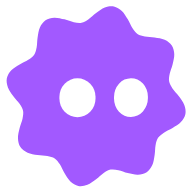
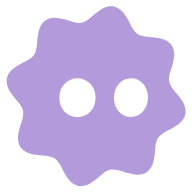
feat(theme): add pastel accents and smooth theme transitions

diff --git a/apps/web/test/state/session/theme.test.ts b/apps/web/test/state/session/theme.test.ts
@@ -1,0 +1,92 @@
+import { afterEach, beforeEach, expect, test, vi } from "vitest";
+import { applyTheme, disposeThemeTransition } from "../../../src/state/session/theme";
+
+beforeEach(() => {
+  disposeThemeTransition();
+  document.documentElement.classList.remove("dark");
+});
+afterEach(() => {
+  disposeThemeTransition();
+  vi.restoreAllMocks();
+  delete (document as Partial<Document>).startViewTransition;
+});
+
+function nativeTransition() {
+  const updates: (() => void | Promise<void>)[] = [];
+  const finishers: (() => void)[] = [];
+  const transitions: { skipTransition: ReturnType<typeof vi.fn> }[] = [];
+  const start = vi.fn((update: () => void | Promise<void>) => {
+    updates.push(update);
+    const value = {
+      skipTransition: vi.fn(),
+      finished: new Promise<void>((resolve) => finishers.push(resolve)),
+    };
+    transitions.push(value);
+    return value;
+  });
+  Object.defineProperty(document, "startViewTransition", { configurable: true, value: start });
+  return { start, updates, finishers, transitions };
+}
+
+test("initial application stays immediate and a later switch blends once despite duplicate callers", async () => {
+  const d = nativeTransition();
+  applyTheme("light");
+  expect(d.start).not.toHaveBeenCalled();
+  applyTheme("dark");
+  applyTheme("dark");
+  expect(d.start).toHaveBeenCalledOnce();
+  expect(document.documentElement).not.toHaveClass("dark");
+  await d.updates[0]!();
+  expect(document.documentElement).toHaveClass("dark");
+  expect(document.documentElement.style.colorScheme).toBe("dark");
+  expect(localStorage.getItem("musart.theme")).toBe("dark");
+  d.finishers[0]!();
+});
+
+test("a newer choice supersedes a pending snapshot instead of restoring an obsolete theme", async () => {
+  const d = nativeTransition();
+  applyTheme("light");
+  applyTheme("dark");
+  applyTheme("light");
+  expect(d.transitions[0]!.skipTransition).toHaveBeenCalledOnce();
+  await d.updates[0]!();
+  expect(document.documentElement).not.toHaveClass("dark");
+  expect(localStorage.getItem("musart.theme")).toBe("light");
+});
+
+test("reduced motion resolves System immediately and native snapshot failures do not block switching", () => {
+  const d = nativeTransition();
+  applyTheme("light");
+  vi.spyOn(window, "matchMedia").mockImplementation((query) => ({
+    media: query,
+    matches: true,
+    onchange: null,
+    addListener: vi.fn(),
+    removeListener: vi.fn(),
+    addEventListener: vi.fn(),
+    removeEventListener: vi.fn(),
+    dispatchEvent: vi.fn(() => true),
+  }));
+  applyTheme("system");
+  expect(document.documentElement).toHaveClass("dark");
+  expect(localStorage.getItem("musart.theme")).toBe("system");
+  expect(d.start).not.toHaveBeenCalled();
+  vi.mocked(window.matchMedia).mockRestore();
+  d.start.mockImplementation(() => {
+    throw new Error("Snapshot unavailable");
+  });
+  applyTheme("light");
+  expect(document.documentElement).not.toHaveClass("dark");
+});
+
+test("disposal retires the native animation and pending deliveries cannot overwrite the final choice", async () => {
+  const d = nativeTransition();
+  applyTheme("light");
+  applyTheme("dark");
+  disposeThemeTransition();
+  expect(document.documentElement).toHaveClass("dark");
+  expect(d.transitions[0]!.skipTransition).toHaveBeenCalledOnce();
+  applyTheme("light");
+  await d.updates[0]!();
+  expect(document.documentElement).not.toHaveClass("dark");
+});

diff --git a/apps/web/src/state/session/theme.ts b/apps/web/src/state/session/theme.ts
@@ -1,0 +1,85 @@
+import { useEffect } from "react";
+import { atom, useAtomValue } from "jotai";
+
+export type Theme = "system" | "light" | "dark";
+const initialized = new WeakSet<HTMLElement>();
+let revision = 0;
+let active: { root: HTMLElement; dark: boolean; transition: ViewTransition } | null = null;
+
+export function readTheme(): Theme {
+  try {
+    const saved = localStorage.getItem("musart.theme");
+    return saved === "light" || saved === "dark" ? saved : "system";
+  } catch {
+    return "system";
+  }
+}
+export const themeAtom = atom<Theme>(readTheme());
+
+function paint(root: HTMLElement, dark: boolean) {
+  root.classList.toggle("dark", dark);
+  root.style.colorScheme = dark ? "dark" : "light";
+}
+
+/** Native snapshots blend the complete interface, including portals, without a React frame loop. */
+export function applyTheme(theme: Theme) {
+  const root = document.documentElement;
+  const dark =
+    theme === "dark" || (theme === "system" && matchMedia("(prefers-color-scheme: dark)").matches);
+  try {
+    localStorage.setItem("musart.theme", theme);
+  } catch {
+    /* Theme changes remain available with blocked storage. */
+  }
+  if (active?.root === root && active.dark === dark) return;
+  const request = ++revision;
+  active?.transition.skipTransition();
+  active = null;
+  const first = !initialized.has(root);
+  initialized.add(root);
+  if (
+    first ||
+    root.classList.contains("dark") === dark ||
+    matchMedia("(prefers-reduced-motion: reduce)").matches ||
+    !document.startViewTransition
+  ) {
+    paint(root, dark);
+    return;
+  }
+  try {
+    const transition = document.startViewTransition(() => {
+      if (request === revision) paint(root, dark);
+    });
+    active = { root, dark, transition };
+    void transition.finished
+      .catch(() => undefined)
+      .then(() => {
+        if (active?.transition === transition) active = null;
+      });
+  } catch {
+    paint(root, dark);
+  }
+}
+
+export function disposeThemeTransition() {
+  ++revision;
+  initialized.delete(document.documentElement);
+  if (active) {
+    paint(active.root, active.dark);
+    active.transition.skipTransition();
+    active = null;
+  }
+}
+
+export function useTheme() {
+  const theme = useAtomValue(themeAtom);
+  useEffect(() => {
+    applyTheme(theme);
+    if (theme !== "system") return;
+    const media = matchMedia("(prefers-color-scheme: dark)");
+    const onChange = () => applyTheme("system");
+    media.addEventListener("change", onChange);
+    return () => media.removeEventListener("change", onChange);
+  }, [theme]);
+  useEffect(() => disposeThemeTransition, []);
+}

diff --git a/apps/web/src/state/session/editor.ts b/apps/web/src/state/session/editor.ts
@@ -1,5 +1,5 @@
-import { useCallback, useEffect, useSyncExternalStore } from "react";
-import { atom, useAtomValue } from "jotai";
+import { useCallback, useSyncExternalStore } from "react";
+import { atom } from "jotai";
 import type { EnginePort, SessionSnapshot } from "@musart/core";
 import type { PreviewValue } from "./preview-source";
 import type { Tool } from "../../canvas/EditorCanvas";
@@ -10,27 +10,7 @@ export const previewAtom = atom<PreviewValue | null>(null);
 export const toleranceAtom = atom(32);
 export const selectionModeAtom = atom<SelectionMode>("new");
 export const selectionContiguousAtom = atom(true);
-export type Theme = "system" | "light" | "dark";
-export function readTheme(): Theme {
-  try {
-    const saved = localStorage.getItem("musart.theme");
-    return saved === "light" || saved === "dark" ? saved : "system";
-  } catch {
-    return "system";
-  }
-}
-export const themeAtom = atom<Theme>(readTheme());
-export function useTheme() {
-  const theme = useAtomValue(themeAtom);
-  useEffect(() => {
-    applyTheme(theme);
-    if (theme !== "system") return;
-    const media = matchMedia("(prefers-color-scheme: dark)");
-    const onChange = () => applyTheme("system");
-    media.addEventListener("change", onChange);
-    return () => media.removeEventListener("change", onChange);
-  }, [theme]);
-}
+export { applyTheme, readTheme, themeAtom, useTheme, type Theme } from "./theme";
 export function useEngine(engine: EnginePort) {
   return useSyncExternalStore(engine.subscribe, engine.getSnapshot, engine.getSnapshot);
 }
@@ -38,15 +18,4 @@ export function useEngine(engine: EnginePort) {
 export function useEngineValue<T>(engine: EnginePort, select: (snapshot: SessionSnapshot) => T) {
   const read = useCallback(() => select(engine.getSnapshot()), [engine, select]);
   return useSyncExternalStore(engine.subscribe, read, read);
-}
-export function applyTheme(theme: Theme) {
-  const dark =
-    theme === "dark" || (theme === "system" && matchMedia("(prefers-color-scheme: dark)").matches);
-  document.documentElement.classList.toggle("dark", dark);
-  document.documentElement.style.colorScheme = dark ? "dark" : "light";
-  try {
-    localStorage.setItem("musart.theme", theme);
-  } catch {
-    /* Editing remains available with blocked storage. */
-  }
 }

diff --git a/apps/web/src/styles/tokens.css b/apps/web/src/styles/tokens.css
@@ -7,6 +7,8 @@
   --color-card-foreground: var(--foreground);
   --color-popover: var(--popover);
   --color-popover-foreground: var(--foreground);
+  --color-action: var(--action);
+  --color-action-foreground: var(--action-foreground);
   --color-primary: var(--primary);
   --color-primary-foreground: var(--primary-foreground);
   --color-secondary: var(--secondary);
@@ -30,9 +32,9 @@
   --foreground: #24252b;
   --card: #ffffff;
   --popover: #ffffff;
-  --primary: var(--action);
+  --primary: var(--brand-primary);
   --primary-foreground: var(--action-foreground);
-  --action: var(--brand-primary);
+  --action: var(--brand-action);
   --action-foreground: var(--brand-primary-foreground);
   --media-image: var(--primary);
   --motion-accent: var(--primary);
@@ -62,12 +64,12 @@
   --media-video: #a78bfa;
   --media-audio: #4ade80;
   --background: #222222;
-  --foreground: #e8e8e8;
+  --foreground: #ffffff;
   --card: #262626;
   --popover: #2a2a2a;
-  --primary: var(--action);
+  --primary: var(--brand-primary);
   --primary-foreground: var(--action-foreground);
-  --action: var(--brand-primary);
+  --action: var(--brand-action);
   --action-foreground: var(--brand-primary-foreground);
   --secondary: #353535;
   --muted: #303030;

diff --git a/scripts/brand-assets.ts b/scripts/brand-assets.ts
@@ -30,7 +30,7 @@ export async function writeBrandAssets(
   await mkdir(publicFolder, { recursive: true });
   await writeFile(
     resolve(root, "apps/web/src/ui/brand/palette.css"),
-    `/* Generated from ui/brand/config.ts by bun scripts/brand-assets.ts. */\n:root {\n  --brand-primary: ${brand.colors.primary.toLowerCase()};\n  --brand-primary-foreground: ${brand.colors.onPrimary.toLowerCase()};\n  --brand-soft: ${brand.colors.soft.toLowerCase()};\n  --brand-ink: ${brand.colors.ink.toLowerCase()};\n}\n`,
+    `/* Generated from ui/brand/config.ts by bun scripts/brand-assets.ts. */\n:root {\n  --brand-primary: ${brand.colors.primary.toLowerCase()};\n  --brand-action: ${brand.colors.action.toLowerCase()};\n  --brand-primary-foreground: ${brand.colors.onPrimary.toLowerCase()};\n  --brand-soft: ${brand.colors.soft.toLowerCase()};\n  --brand-ink: ${brand.colors.ink.toLowerCase()};\n}\n`,
   );
   await writeFile(
     resolve(root, "apps/web/public/manifest.webmanifest"),

diff --git a/apps/web/src/styles/theme-transition.css b/apps/web/src/styles/theme-transition.css
@@ -1,0 +1,32 @@
+::view-transition {
+  pointer-events: none;
+}
+::view-transition-old(root),
+::view-transition-new(root) {
+  mix-blend-mode: normal;
+  animation-duration: 360ms;
+  animation-timing-function: cubic-bezier(0.4, 0, 0.2, 1);
+}
+::view-transition-old(root) {
+  animation-name: theme-fade-out;
+}
+::view-transition-new(root) {
+  animation-name: theme-fade-in;
+}
+@keyframes theme-fade-out {
+  to {
+    opacity: 0;
+  }
+}
+@keyframes theme-fade-in {
+  from {
+    opacity: 0;
+  }
+}
+@media (prefers-reduced-motion: reduce) {
+  ::view-transition-group(root),
+  ::view-transition-old(root),
+  ::view-transition-new(root) {
+    animation-duration: 0.01ms;
+  }
+}

diff --git a/apps/web/test/ui/brand/MeltLogo.test.tsx b/apps/web/test/ui/brand/MeltLogo.test.tsx
@@ -16,7 +16,7 @@ test("renders a genuine Dahlia SVG with explicit identity, local IDs and zero id
   expect(logo.tagName.toLowerCase()).toBe("svg");
   expect(logo).toHaveAttribute("width", "42");
   expect(logo).toHaveStyle({ width: "42px", height: "42px" });
-  expect(logo.querySelector('path[fill="#A259FF"]')?.getAttribute("d")).toMatch(/^M.*C.*Z$/);
+  expect(logo.querySelector('path[fill="#B39ADB"]')?.getAttribute("d")).toMatch(/^M.*C.*Z$/);
   expect(document.querySelectorAll("clipPath")).toHaveLength(2);
   const ids = [...document.querySelectorAll("clipPath")].map((node) => node.id);
   expect(new Set(ids).size).toBe(2);

diff --git a/apps/web/src/components/ui/glass-controls.css b/apps/web/src/components/ui/glass-controls.css
@@ -70,8 +70,8 @@
   height: 16px;
 }
 .glass-switch[data-state="checked"] {
-  background: var(--primary);
-  border-color: var(--primary);
+  background: var(--action);
+  border-color: var(--action);
 }
 .glass-switch:focus-visible {
   box-shadow: 0 0 0 3px color-mix(in srgb, var(--ring) 30%, transparent);
@@ -110,7 +110,7 @@
   background: var(--primary-foreground);
 }
 .dark .glass-switch[data-state="unchecked"] .glass-switch-thumb {
-  background: var(--foreground);
+  background: var(--brand-primary-foreground);
 }
 @media (prefers-reduced-motion: reduce) {
   .glass-slider-thumb,

diff --git a/apps/web/test/ui/brand/render-frame.test.ts b/apps/web/test/ui/brand/render-frame.test.ts
@@ -17,7 +17,7 @@ test("retains bounded real SVG paths for every engine state, keeps clip IDs loca
   other.paint(frame);
   expect(svg.querySelector("clipPath")!.id).toBe("first-body");
   expect(otherSvg.querySelector("clipPath")!.id).toBe("second-body");
-  expect(svg.querySelector('path[fill="#A259FF"]')).toHaveAttribute("d", frame.bodyPath);
+  expect(svg.querySelector('path[fill="#B39ADB"]')).toHaveAttribute("d", frame.bodyPath);
   for (const state of SEQUENCE) {
     const source = createDahliaEngine(state);
     surface.paint(source.sample(0.75));

diff --git a/apps/web/test/ui/brand/config.test.ts b/apps/web/test/ui/brand/config.test.ts
@@ -3,7 +3,7 @@ import { brand } from "../../../src/ui/brand/config";
 test("shares the Melt identity, original Dahlia look and SVG asset contract", () => {
   expect(brand).toMatchObject({
     name: "Melt",
-    colors: { primary: "#A259FF", foreground: "#FFFFFF" },
+    colors: { primary: "#B39ADB", action: "#8763C8", foreground: "#FFFFFF", onPrimary: "#FFFFFF" },
     mascot: { shape: "fleur8", expression: "surpris", eyes: "capsule" },
   });
   expect(brand.assets.icon).toBe("branding/melt.svg");

diff --git a/test/scripts/brand-assets.test.ts b/test/scripts/brand-assets.test.ts
@@ -18,7 +18,7 @@ test("exports the exact genuine engine frame as SVG and an inset maskable icon",
     expect(svg).toContain(`transform="${eye.matrix}"`);
   }
   expect(svg).toContain('aria-label="Melt"');
-  expect(svg).toContain('fill="#A259FF"');
+  expect(svg).toContain('fill="#B39ADB"');
   expect(renderBrandSvg(true)).toContain("translate(256 256) scale(1.7)");
 });
 test("public install icons are exact copies of the canonical source SVGs and match their checksum manifest", async () => {

diff --git a/apps/web/index.html b/apps/web/index.html
@@ -3,7 +3,7 @@
   <head>
     <meta charset="UTF-8" />
     <meta name="viewport" content="width=device-width,initial-scale=1.0,viewport-fit=cover" />
-    <meta name="theme-color" content="#A259FF" />
+    <meta name="theme-color" content="#B39ADB" />
     <link rel="icon" type="image/svg+xml" href="/branding/melt.svg" sizes="any" />
     <link rel="apple-touch-icon" sizes="180x180" href="/branding/melt-icon-180.png" />
     <link rel="manifest" href="/manifest.webmanifest" />
